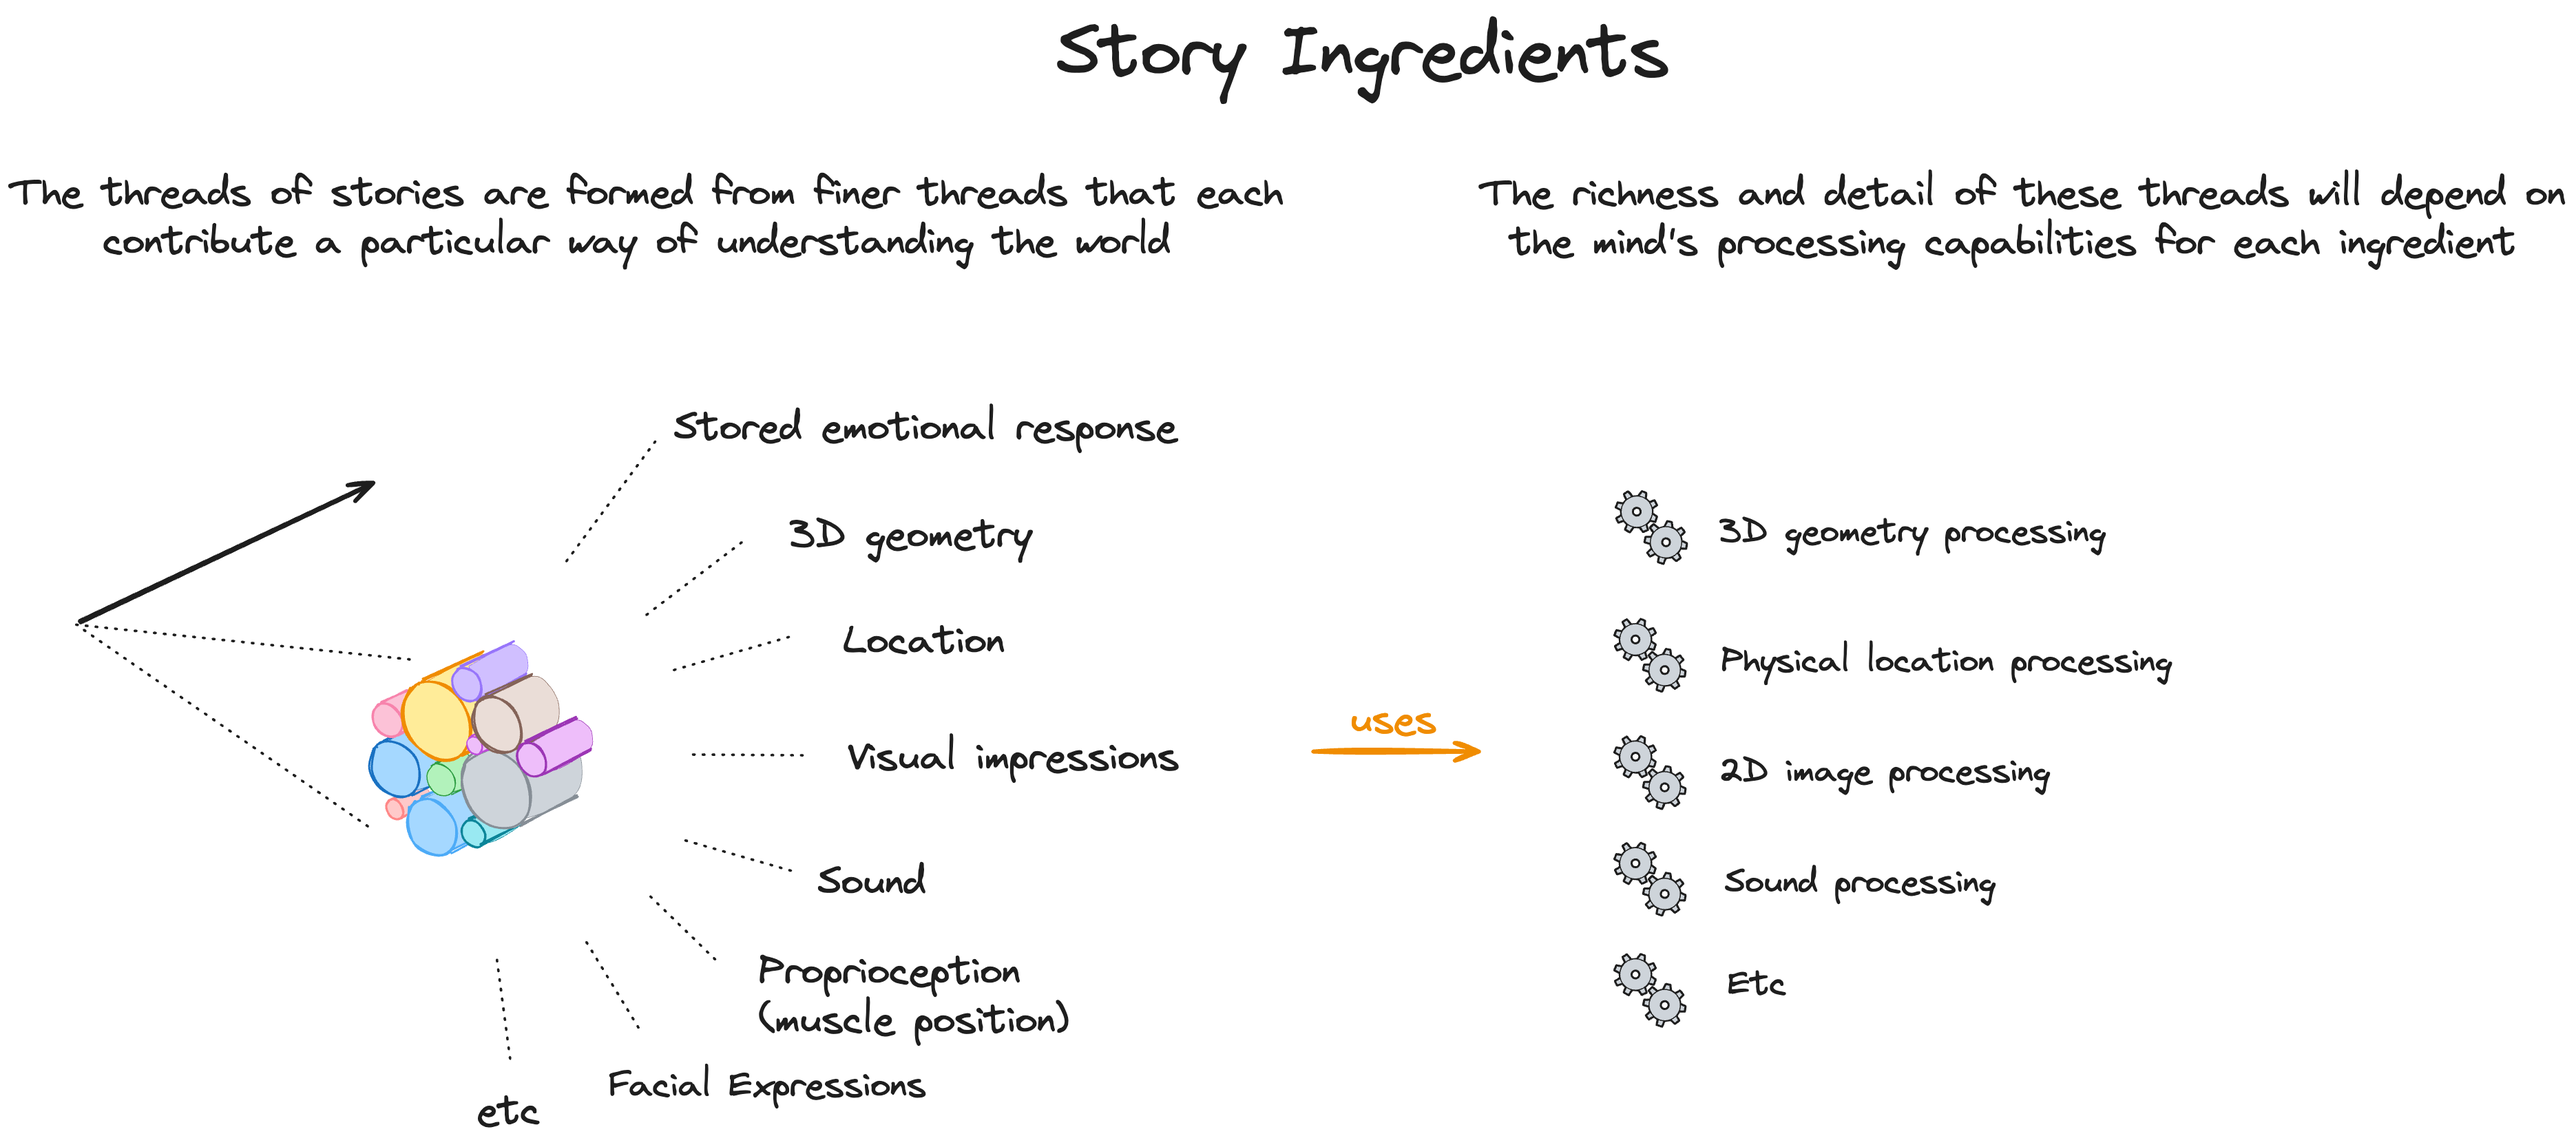
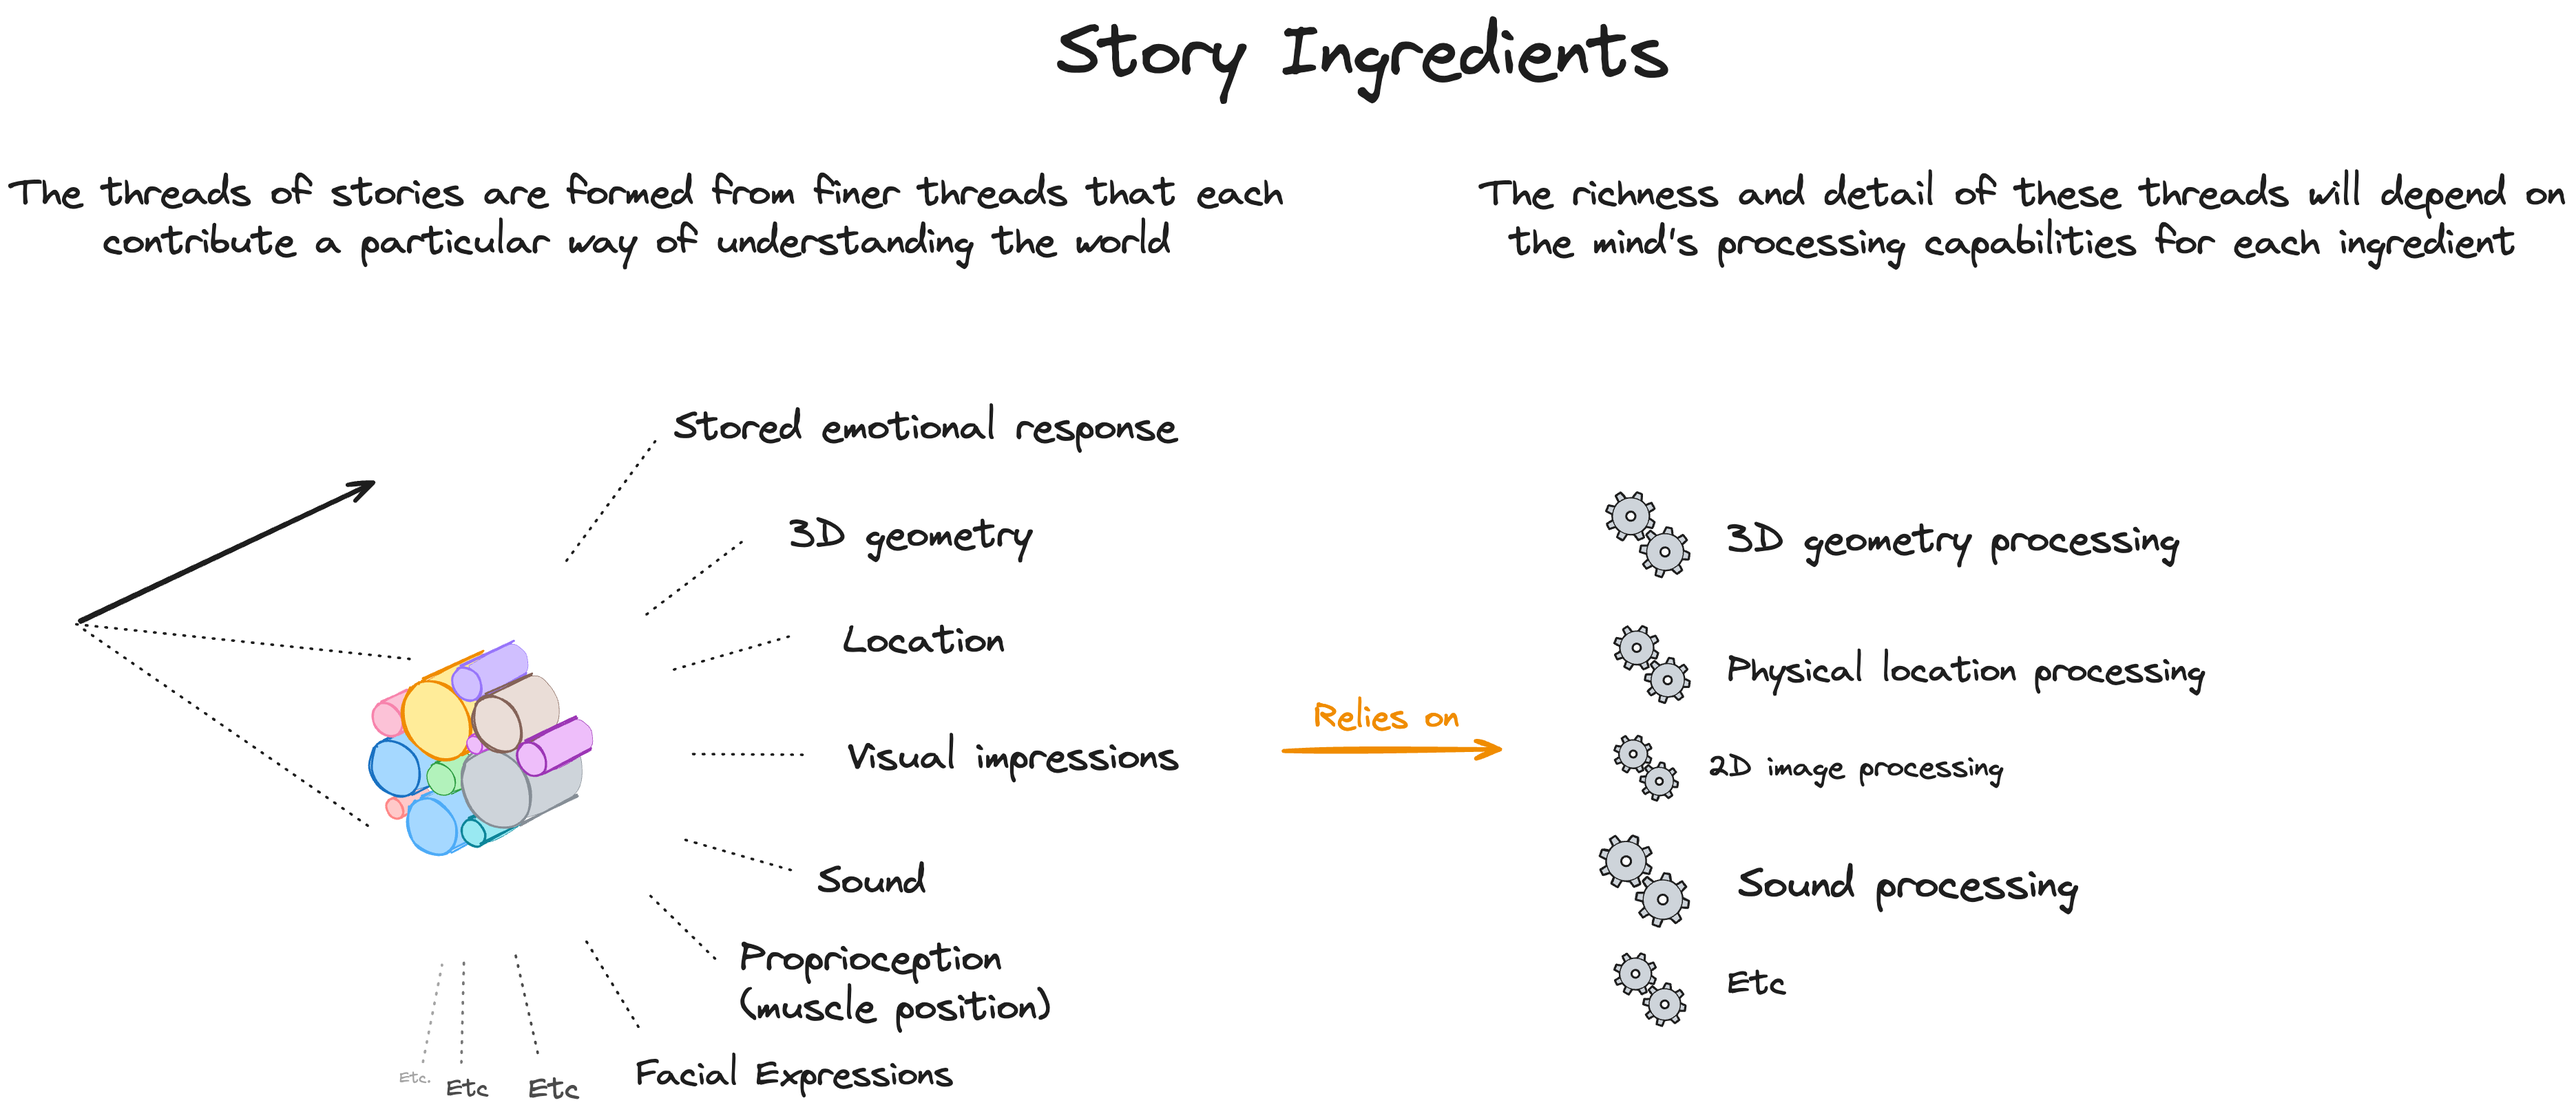
more on creativity and planning

diff --git a/assets/notes/reasoning.md b/assets/notes/reasoning.md
@@ -13,36 +13,54 @@ This proposal presents thinking as a weave of stories and associative connection
 The warp can be seen as narrative knowledge "this, then that, then that" - temporal sequences that we use to predict, plan and generally understand the world. These will be called 'stories" in this document.
 
 The weft can be seen those things that stories have in common, i.e. similar patterns. These will be called "associations" in this document.
-</br>
+<br/>
 <img src="../images/fig-weave-warp-and-weft.png" width="900"/>
 
 ## Story Ingredients
-</br>
+<br/>
 <img src="../images/fig-weave-story-ingredients.png" width="900"/>
-</br>
-## Story Sequences
+<br/>
+Story Sequences
 
 todo
 
 ## Associative Knowledge
 
 The knowledge encapsulated by association is an essential component in thinking...
-</br>
-<img src="../images/fig-weave-associative-knoledge.png" with="900">
-</br>
+<br/>
+<img src="../images/fig-weave-associative-knoledge.png" with="900"/>
+<br/>
 It will be used when constructing narratives as it allows past experience to be applied to new but similar situations.
-</br>
-<img src="../images/fig-weave-reasoning-basic.png" width="900">
-</br>
+<br/>
+
+## Simple Plan Building
+
+The options that we are aware of will come to mind based on association with previous experience.
+
+<img src="../images/fig-weave-reasoning-basic.png" width="900"/>
+<br/>
+
+The matching story will be based on...
+
+* Similarity of the source patterns.
+* Current emotions (e.g. if currently fearful then different thoughts will arise compared to when feeling secure).
+* Recent thoughts (priming)
+
 Examples include...
 
 * Commonly encountered objects (cars, eggs, houses ...)
 * Common activities (walking, crossing the road, preparing breakfast ...)
 * Common thinking patterns (adding a list of numbers, choosing )
 
+## Changing Behaviour
+
+todo
+
+<img src="../images/fig-weave-changing-bahaviour.png" width="900"/>
+
 ## Example of Relevant vs Creative Thinking
 
 As an example, we could say that one mechanism for adjusting the level of creativity of the next occurring thought is the amount of data that we use as a source when looking for a matching pattern...
-</br>
+<br/>
 <img src="../images/fig-weave-creativity.png" width="900"/>
-</br>
+<br/>
